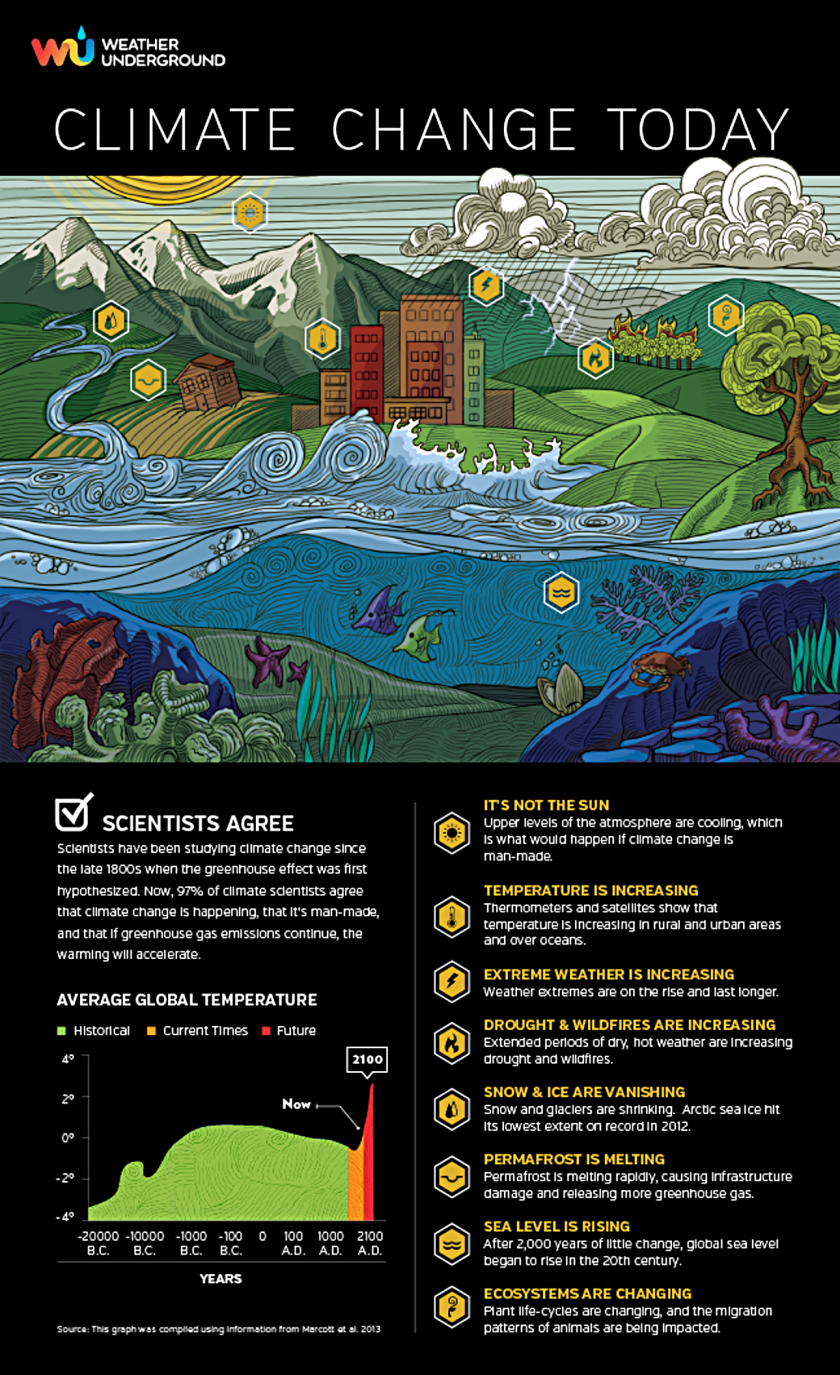
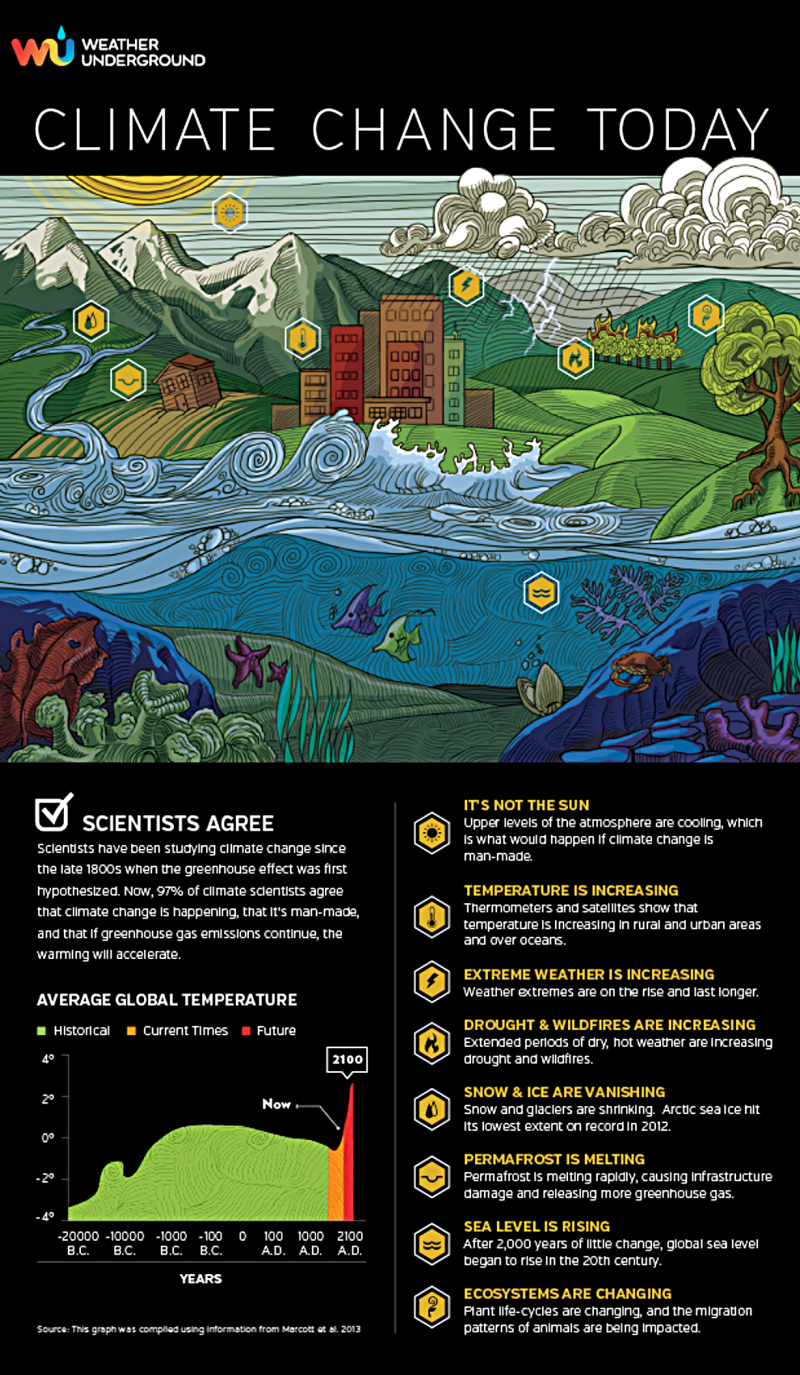
Update

diff --git a/visualizations2.php b/visualizations2.php
@@ -165,17 +165,17 @@
               <div style="padding:20px;">
 
                 <div class="visualizations">
-                  <img style="float:left; border:1px solid gray; height:130px; width:130px; margin-right:10px;" src="./images/visualizations-thumbnail-3.jpg" />
-                  <b>GOOD Magazine</b> <div class="play-time">01:52</div>
+                  <img style="float:left; border:1px solid gray; height:130px; width:130px; margin-right:10px;" src="./images/visualizations-thumbnail-16.jpg" />
+                  <b>Seth Wynes / Kimberly Nicholas</b> <div class="play-time">Dimensions: 800 x 565</div>
                 </div> 
 
                 <div>
                   <button class="collapse"><span style="color:#FFFFFF; font-weight: bold; margin-left:15px;">View</span></button>
                   <div class="expandcontent">
-                  <iframe width="1000" height="562" src="https://www.youtube.com/embed/YUdSFHFywpg?rel=0" frameborder="1" allow="accelerometer; autoplay; encrypted-media; gyroscope; picture-in-picture" allowfullscreen></iframe>
+                  <img style="" src="./images/personal-contribution.jpg" />
                   </div>
                 </div>  
-                <div style="margin-top:44px;"><b>Description: </b>Global warming could create 150,000,000 "climate refugees" over next 40 years.</div>
+                <div style="margin-top:44px;"><b>Description: </b>Personal choices to reduce your contribution to climate change.</div>
               </div>
 
               <br /><br />
@@ -183,16 +183,16 @@
               <div style="background-color: #F0F0F0; padding:20px;">
 
                 <div class="visualizations">
-                  <img style="float:left; border:1px solid gray; height:130px; width:130px; margin-right:10px;" src="./images/visualizations-thumbnail-4.jpg" />
-                  <b>NASA</b> <div class="play-time">00:41</div>
+                  <img style="float:left; border:1px solid gray; height:130px; width:130px; margin-right:10px;" src="./images/visualizations-thumbnail-17.jpg" />
+                  <b>Weather Underground</b> <div class="play-time">Dimensions: 800 x 1375</div>
                 </div> 
 
                 <div>
                   <button class="collapse"><span style="color:#FFFFFF; font-weight: bold; margin-left:15px;">View</span></button>
                   <div class="expandcontent2">
-                  <iframe width="1000" height="562" src="https://www.youtube.com/embed/ULEFPCIPP7Y?rel=0" frameborder="1" allow="accelerometer; autoplay; encrypted-media; gyroscope; picture-in-picture" allowfullscreen></iframe>
+                  <img style="" src="./images/visual13.png" />
                   </div>
-                  <div style="margin-top:44px;"><b>Description: </b>Annual Arctic sea ice minimum 1979-2018 with area graph.</div>
+                  <div style="margin-top:44px;"><b>Description: </b>Climate change today.</div>
                 </div>  
 
               </div>
@@ -202,16 +202,16 @@
               <div style="padding:20px;">
 
                 <div class="visualizations">
-                  <img style="float:left; border:1px solid gray; height:130px; width:130px; margin-right:10px;" src="./images/visualizations-thumbnail-5.jpg" />
-                  <b>Neil DeGrasse Tyson</b> <div class="play-time">03:59</div>
+                  <img style="float:left; border:1px solid gray; height:130px; width:130px; margin-right:10px;" src="./images/visualizations-thumbnail-18.jpg" />
+                  <b>World Resources Institute</b> <div class="play-time">Dimensions: 800 x 783</div>
                 </div> 
 
                 <div>
                   <button class="collapse"><span style="color:#FFFFFF; font-weight: bold; margin-left:15px;">View</span></button>
                   <div class="expandcontent">
-                  <iframe width="1000" height="562" src="https://www.youtube.com/embed/6VUPIX7yEOM?rel=0" frameborder="1" allow="accelerometer; autoplay; encrypted-media; gyroscope; picture-in-picture" allowfullscreen></iframe>
+                  <img style="" src="./images/green-house-gas.png" />
                   </div>
-                  <div style="margin-top:44px;"><b>Description: </b>Simple explanation of climate change.</div>
+                  <div style="margin-top:44px;"><b>Description: </b>Explore the world's greenhouse gas emissions.</div>
                 </div>  
 
               </div>
@@ -221,16 +221,16 @@
               <div style="background-color: #F0F0F0; padding:20px;">
 
                 <div class="visualizations">
-                  <img style="float:left; border:1px solid gray; height:130px; width:130px; margin-right:10px;" src="./images/visualizations-thumbnail-6.jpg" />
-                  <b>Antti Lipponen</b> <div class="play-time">00:34</div>
+                  <img style="float:left; border:1px solid gray; height:130px; width:130px; margin-right:10px;" src="./images/visualizations-thumbnail-19.jpg" />
+                  <b>British Gas</b> <div class="play-time">Dimensions: 800 x 299</div>
                 </div> 
 
                 <div>
                   <button class="collapse"><span style="color:#FFFFFF; font-weight: bold; margin-left:15px;">View</span></button>
                   <div class="expandcontent2">
-                  <iframe width="1000" height="562" src="https://www.youtube.com/embed/K4Ra2HR27pQ?rel=0" frameborder="1" allow="accelerometer; autoplay; encrypted-media; gyroscope; picture-in-picture" allowfullscreen></iframe>
+                  <img style="" src="./images/emission-sources.jpg" />
                   </div>
-                  <div style="margin-top:44px;"><b>Description: </b>Temperature anomalies arranged by country from 1900 - 2016.</div>
+                  <div style="margin-top:44px;"><b>Description: </b>Source of carbon emissions by country.</div>
                 </div>  
 
               </div>
@@ -240,95 +240,20 @@
               <div style="padding:20px;">
 
                 <div class="visualizations">
-                  <img style="float:left; border:1px solid gray; height:130px; width:130px; margin-right:10px;" src="./images/visualizations-thumbnail-7.jpg" />
-                  <b>Antti Lipponen</b> <div class="play-time">00:36</div>
+                  <img style="float:left; border:1px solid gray; height:130px; width:130px; margin-right:10px;" src="./images/visualizations-thumbnail-20.jpg" />
+                  <b>Ed Hawkins</b> <div class="play-time">Dimensions: 800 x 755</div>
                 </div> 
 
                 <div>
                   <button class="collapse"><span style="color:#FFFFFF; font-weight: bold; margin-left:15px;">View</span></button>
                   <div class="expandcontent">
-                  <iframe width="1000" height="562" src="https://www.youtube.com/embed/69HHZkE9HpA?rel=0" frameborder="1" allow="accelerometer; autoplay; encrypted-media; gyroscope; picture-in-picture" allowfullscreen></iframe>
+                  <img style="" src="./images/visual 17.png" />
                   </div>
-                  <div style="margin-top:44px;"><b>Description: </b>Global temperature change 1850 - 2016.</div>
+                  <div style="margin-top:44px;"><b>Description: </b>Earth’s annual temperature anomalies from 1850 to 2016.</div>
                 </div>  
 
               </div>
 
-              <br /><br />
-
-              <div style="background-color: #F0F0F0; padding:20px;">
-
-                <div class="visualizations">
-                  <img style="float:left; border:1px solid gray; height:130px; width:130px; margin-right:10px;" src="./images/visualizations-thumbnail-8.jpg" />
-                  <b>Potsdam Institute for Climate Impact Research</b> <div class="play-time">08:16</div>
-                </div> 
-
-                <div>
-                  <button class="collapse"><span style="color:#FFFFFF; font-weight: bold; margin-left:15px;">View</span></button>
-                  <div class="expandcontent2">
-                  <iframe src="https://player.vimeo.com/video/232557105" width="1000" height="562" frameborder="0" allowfullscreen></iframe>
-                  </div>
-                  <div style="margin-top:44px;"><b>Description: </b>A brief history of CO2 emissions.</div>
-                </div>  
-
-              </div>
-
-              <br /><br />
-
-              <div style="padding:20px;">
-
-                <div class="visualizations">
-                  <img style="float:left; border:1px solid gray; height:130px; width:130px; margin-right:10px;" src="./images/visualizations-thumbnail-9.jpg" />
-                  <b>NASA</b> <div class="play-time">00:56</div>
-                </div> 
-
-                <div>
-                  <button class="collapse"><span style="color:#FFFFFF; font-weight: bold; margin-left:15px;">View</span></button>
-                  <div class="expandcontent">
-                  <iframe width="1000" height="562" src="https://www.youtube.com/embed/CW0D9XTgiGs?rel=0" frameborder="1" allow="accelerometer; autoplay; encrypted-media; gyroscope; picture-in-picture" allowfullscreen></iframe>
-                  </div>
-                  <div style="margin-top:44px;"><b>Description: </b>New study finds sea level rise accelerating.</div>
-                </div>  
-
-              </div>
-
-              <br /><br />
-
-              <div style="background-color: #F0F0F0; padding:20px;">
-
-                <div class="visualizations">
-                  <img style="float:left; border:1px solid gray; height:130px; width:130px; margin-right:10px;" src="./images/visualizations-thumbnail-10.jpg" />
-                  <b>PBS News Hour</b> <div class="play-time">10:09</div>
-                </div> 
-
-                <div>
-                  <button class="collapse"><span style="color:#FFFFFF; font-weight: bold; margin-left:15px;">View</span></button>
-                  <div class="expandcontent2">
-                  <iframe width="1000" height="562" src="https://www.youtube.com/embed/ydPqKhgh9Mg?rel=0" frameborder="0" allow="accelerometer; autoplay; encrypted-media; gyroscope; picture-in-picture" allowfullscreen></iframe>
-                  </div>
-                  <div style="margin-top:44px;"><b>Description: </b>Why U.S. lawmakers failed to act on climate change decades ago.</div>
-                </div>  
-
-              </div>
-
-              <br /><br />
-
-              <div style="padding:20px;">
-
-                <div class="visualizations">
-                  <img style="float:left; border:1px solid gray; height:130px; width:130px; margin-right:10px;" src="./images/visualizations-thumbnail-11.jpg" />
-                  <b>NASA</b> <div class="play-time">02:32</div>
-                </div> 
-
-                <div>
-                  <button class="collapse"><span style="color:#FFFFFF; font-weight: bold; margin-left:15px;">View</span></button>
-                  <div class="expandcontent">
-                  <iframe width="1000" height="562" src="https://www.youtube.com/embed/NIG5ZQT8IAY?rel=0" frameborder="1" allow="accelerometer; autoplay; encrypted-media; gyroscope; picture-in-picture" allowfullscreen></iframe>
-                  </div>
-                  <div style="margin-top:44px;"><b>Description: </b>New satellites study one of Earth's most critically changing regions.</div>
-                </div>  
-
-              </div>
 
 						</div>
 					</div>
